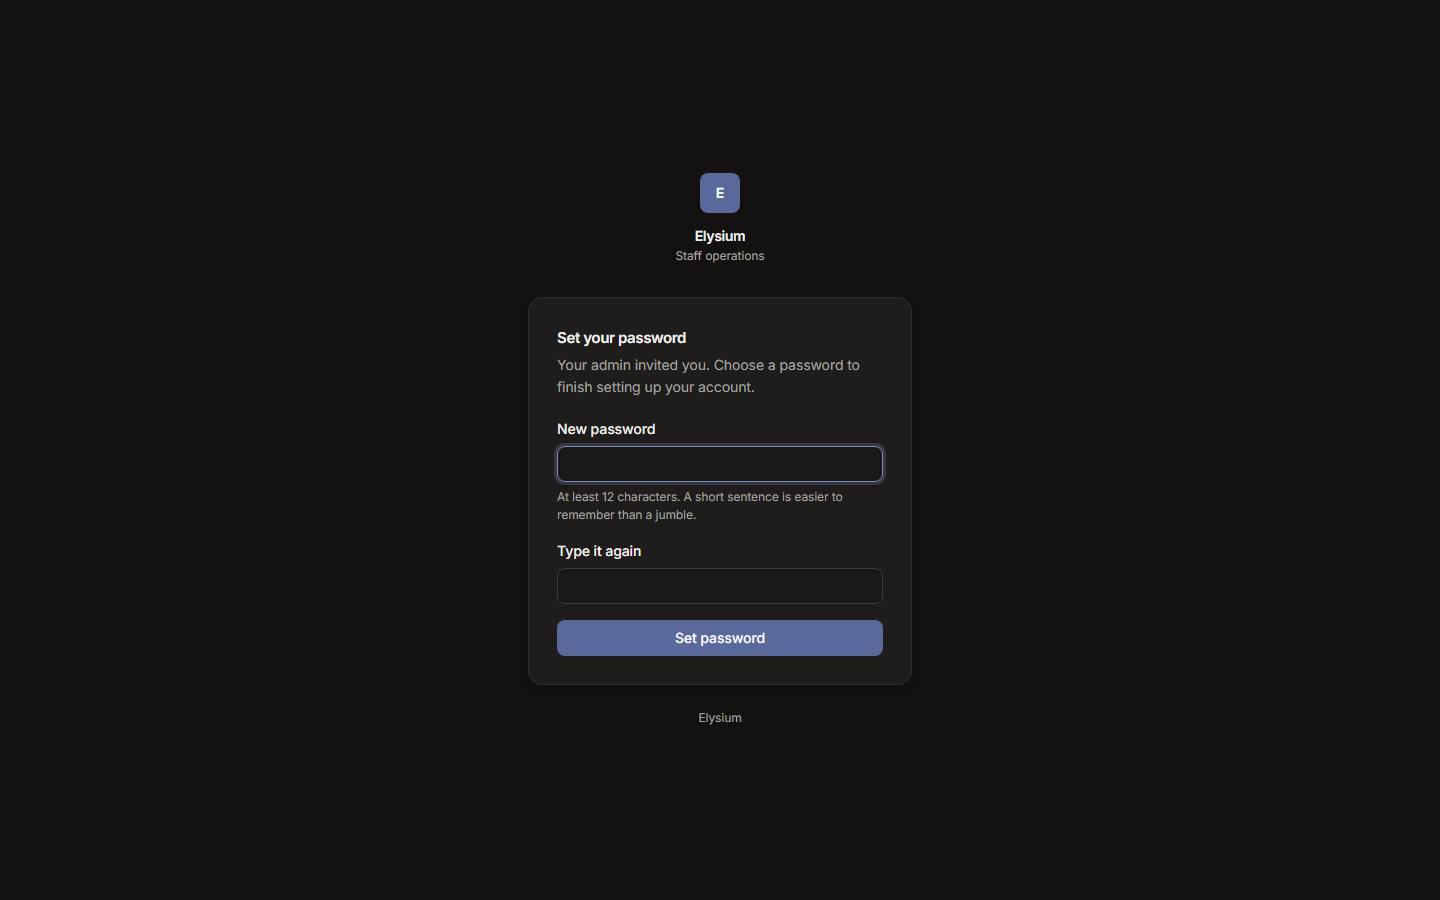
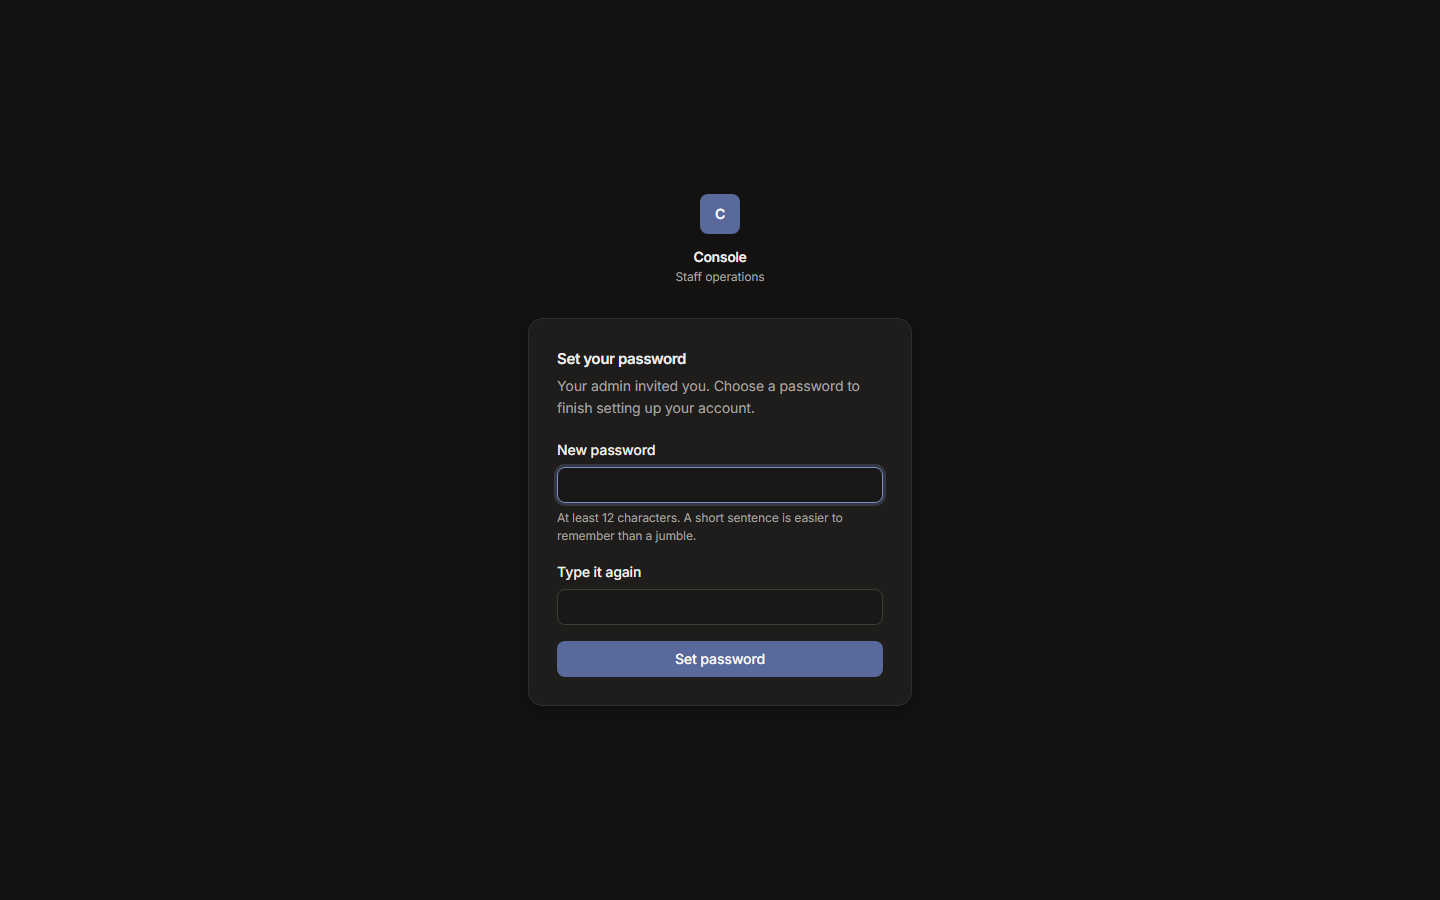
docs(m31): plan status

Changed region(s): [[0.375, 0.3733, 0.625, 0.6533], [0.375, 0.6844, 0.625, 0.8089], [0.4688, 0.1867, 0.5312, 0.3111]]

diff --git a/docs/plans/M31.md b/docs/plans/M31.md
@@ -121,6 +121,27 @@ large rewrite with no gain.
    audit log shows "Owner" to non-owners.
 5. `pnpm verify` green; ledger-auditor on the tenancy and auth diff.
 
-## Status on 2026-10-05
+## Status on 2026-10-05: built
 
-Planned. Not started.
+Built in one session on branch `m31-brand-edition` (from `integration-wave2` at `9e813ce`),
+continuous build mode. Not merged and not deployed: the coordinator integrates it with M32
+and M33, and M37 deploys the brands.
+
+### Acceptance checks
+
+| Check                                                                                                             | State | Evidence                                                                                                                                                                                                                                                                                                 |
+| ----------------------------------------------------------------------------------------------------------------- | ----- | -------------------------------------------------------------------------------------------------------------------------------------------------------------------------------------------------------------------------------------------------------------------------------------------------------- |
+| 1. A brand deployment beside a second real brand refuses to start                                                 | Met   | `checkBrandDeployment` (fast-check), `deployment.db.test.ts`; the built API and worker against a throwaway five-brand database exit 1 with `BrandDeploymentError: ERP_BRAND_SLUG is "oura-lifestyle", but this database also holds 4 other brands (…)`, and stay up on one brand beside the training org |
+| 2. The cross-brand routes answer 404 and have no screens                                                          | Met   | `analytics.e2e.test.ts` and `wallets.e2e.test.ts` (404 to a super admin and an org admin), gone from the route manifest (325 routes) and `openapi.json`; `cross-brand.test.ts` (no route, sidebar or palette entry)                                                                                      |
+| 3. A brand build of the console, till and portal names no brand                                                   | Met   | `scripts/check-white-label.mjs` in `pnpm verify`: 182 built files and both locales, no hit, no source map                                                                                                                                                                                                |
+| 4. Owner link: valid once; expired, replayed, wrong-audience, wrong-key, tampered refused alike; owners not staff | Met   | `owner-link.e2e.test.ts` (11 bad links, one identical 401; two at once open once; two-hour cap; owners absent from Staff, refused a role, a password, and named "Owner" to staff), `owner-link-off.e2e.test.ts`, `owner-link.verify.test.ts` (fast-check)                                                |
+| 5. `pnpm verify` green; ledger-auditor on the tenancy and auth diff                                               | Met   | `pnpm verify` exit 0 (see progress.md); ledger-auditor twice, 0 critical, every finding fixed or recorded                                                                                                                                                                                                |
+
+### Deviations
+
+- Used `jti`s are pruned by `iam.accept_owner_link` on each use rather than by a worker job
+  (D-476).
+- The plan named `packages/domain/src/auth/owner-link.ts`; the shared format was committed as
+  `packages/domain/src/iam/owner-link.ts` before the session (D-473).
+- Added beyond the plan, from the coordinator: `TRUSTED_PROXY_COUNT` now really trusts that
+  many hops (D-479).
